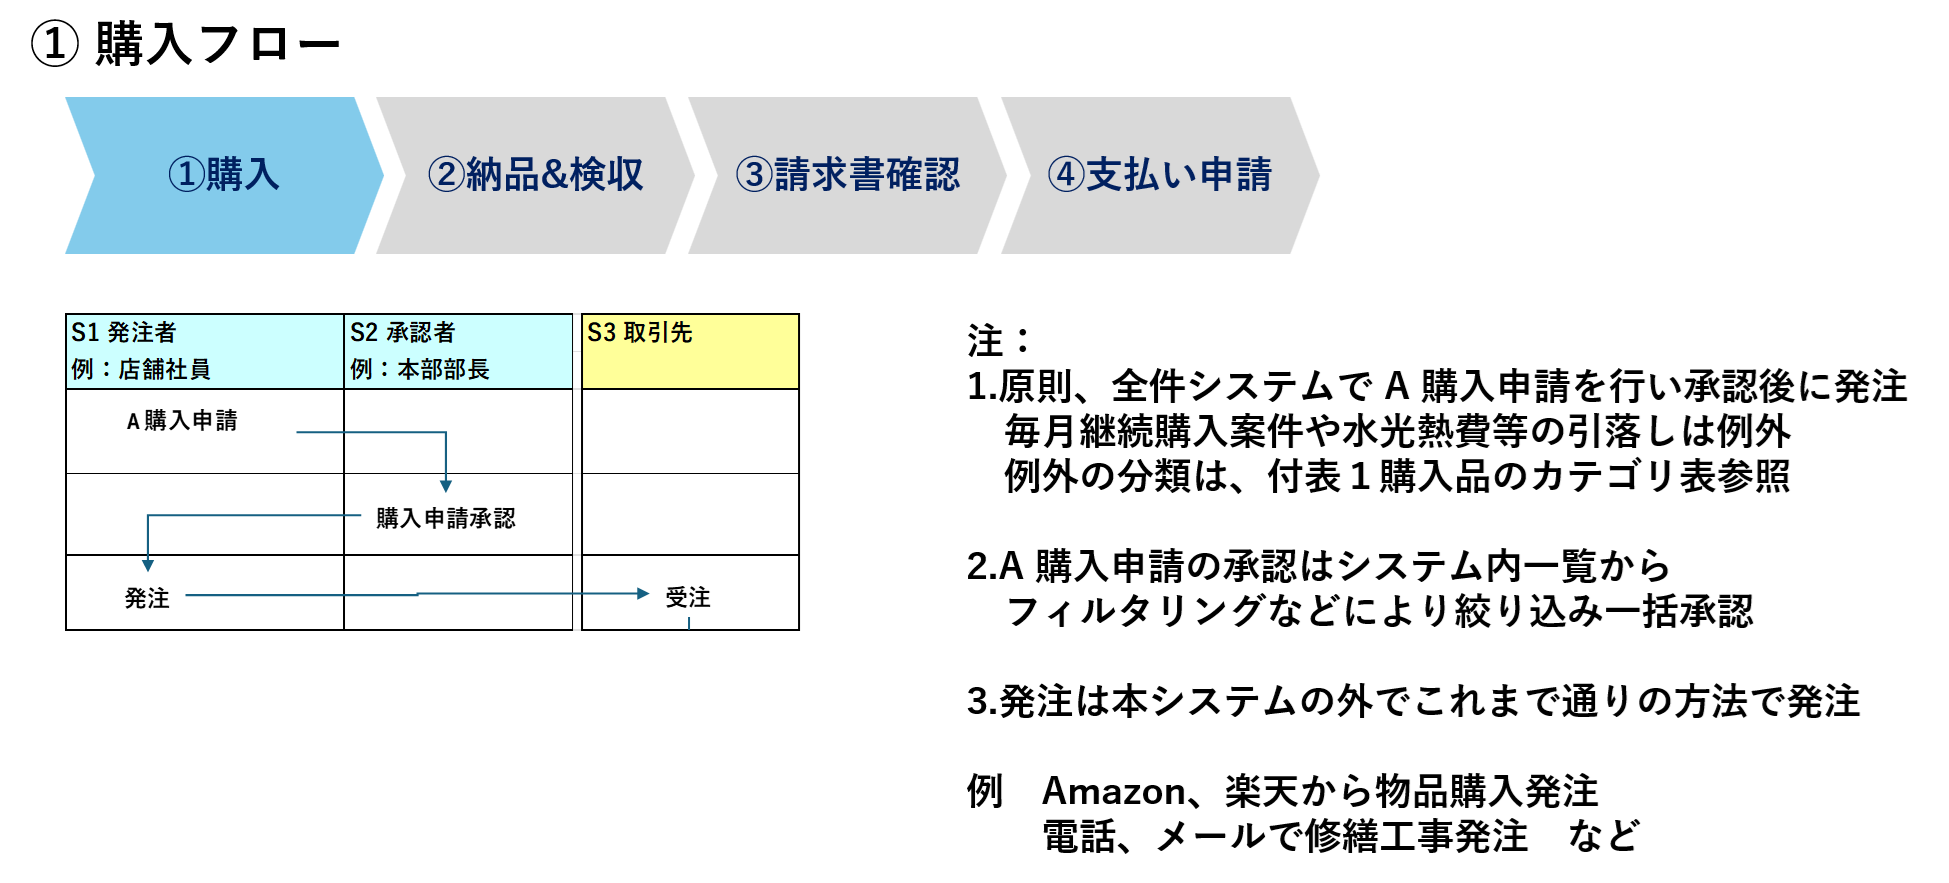
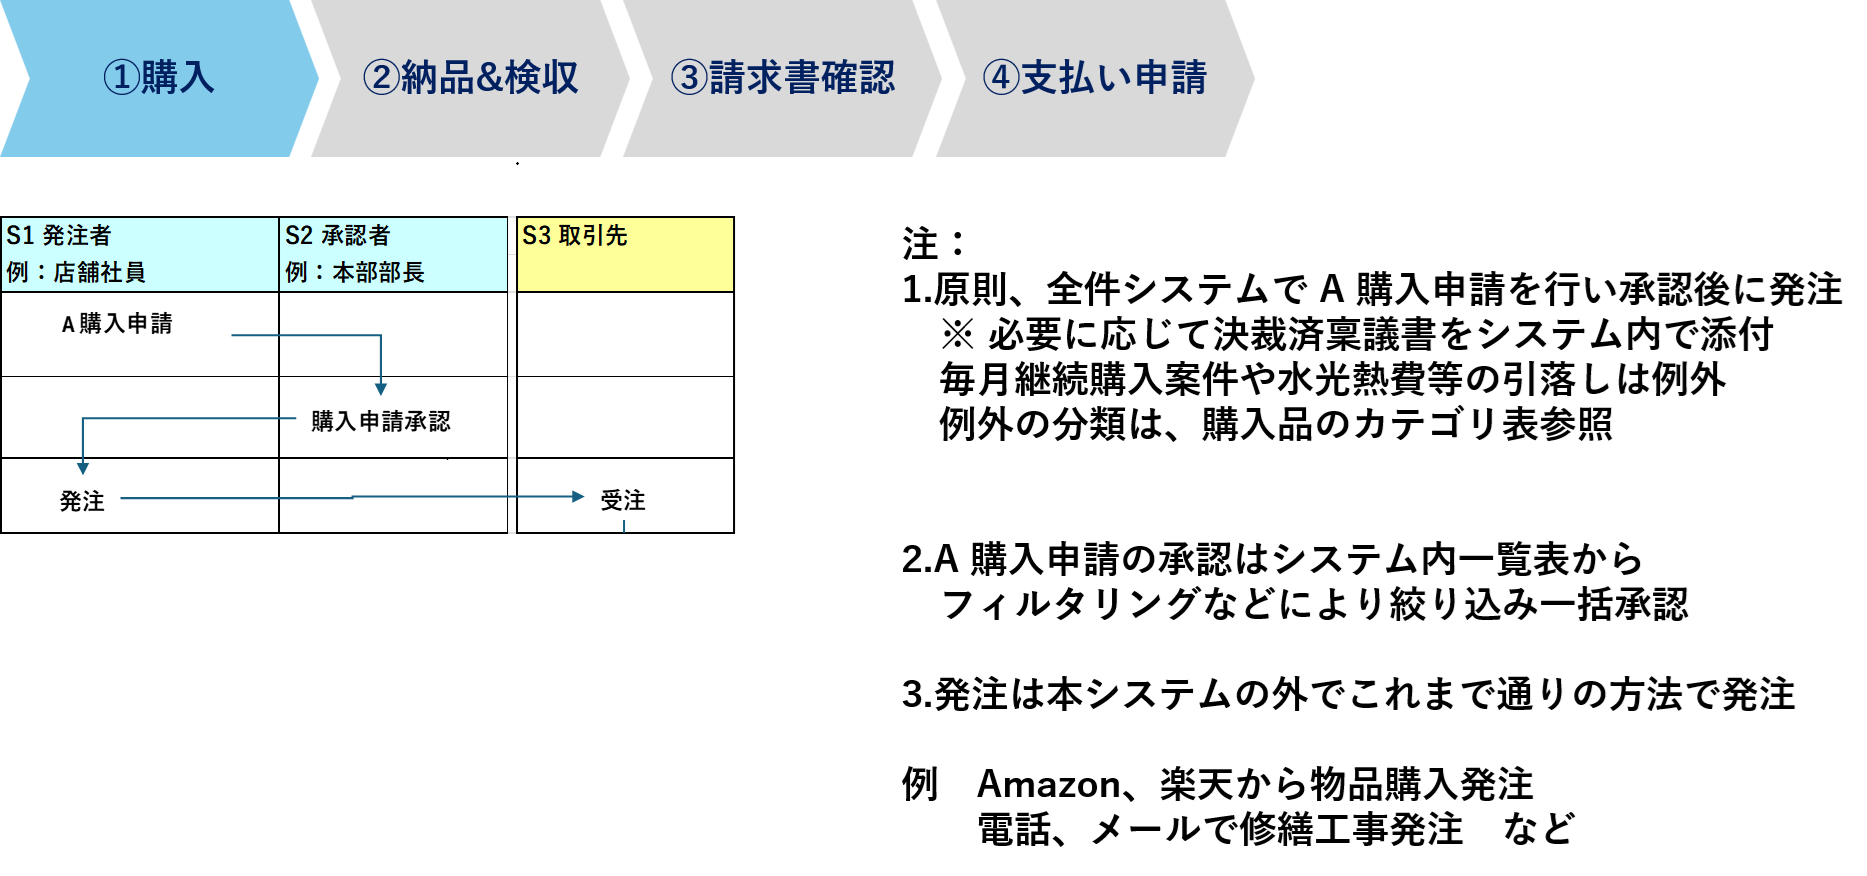
パスワードのハッシュ化および各詳細ページの修正を反映

diff --git a/step2.html b/step2.html
@@ -12,8 +12,8 @@
     <header class="bg-white border-b border-slate-200 sticky top-0 z-40">
         <div class="max-w-5xl mx-auto px-6 h-16 flex items-center justify-between">
             <span class="font-semibold text-slate-900 tracking-tight">② 納品＆検収 - 詳細フロー</span>
-            <a href="index.html" class="px-4 py-2 text-xs font-semibold text-white bg-indigo-950 hover:bg-indigo-900 rounded-xl transition-colors shadow-sm">
-                ← ホームに戻る
+            <a href="index.html#home" class="px-4 py-2 text-xs font-semibold text-white bg-indigo-950 hover:bg-indigo-900 rounded-xl transition-colors shadow-sm">
+                ← 業務フローに戻る
             </a>
         </div>
     </header>
@@ -69,3 +69,4 @@
     </script>
 </body>
 </html>
+```[cite: 15]

diff --git a/ringi.html b/ringi.html
@@ -12,8 +12,8 @@
     <header class="bg-white border-b border-slate-200 sticky top-0 z-40">
         <div class="max-w-5xl mx-auto px-6 h-16 flex items-center justify-between">
             <span class="font-semibold text-slate-900 tracking-tight">稟議書決裁フロー（案）</span>
-            <a href="index.html" class="px-4 py-2 text-xs font-semibold text-white bg-indigo-950 hover:bg-indigo-900 rounded-xl transition-colors shadow-sm">
-                ← ホームに戻る
+            <a href="index.html#home" class="px-4 py-2 text-xs font-semibold text-white bg-indigo-950 hover:bg-indigo-900 rounded-xl transition-colors shadow-sm">
+                ← 業務フローに戻る
             </a>
         </div>
     </header>
@@ -69,3 +69,4 @@
     </script>
 </body>
 </html>
+```[cite: 12]

diff --git a/step1.html b/step1.html
@@ -12,8 +12,8 @@
     <header class="bg-white border-b border-slate-200 sticky top-0 z-40">
         <div class="max-w-5xl mx-auto px-6 h-16 flex items-center justify-between">
             <span class="font-semibold text-slate-900 tracking-tight">① 購入 - 詳細フロー</span>
-            <a href="index.html" class="px-4 py-2 text-xs font-semibold text-white bg-indigo-950 hover:bg-indigo-900 rounded-xl transition-colors shadow-sm">
-                ← ホームに戻る
+            <a href="index.html#home" class="px-4 py-2 text-xs font-semibold text-white bg-indigo-950 hover:bg-indigo-900 rounded-xl transition-colors shadow-sm">
+                ← 業務フローに戻る
             </a>
         </div>
     </header>
@@ -99,3 +99,4 @@
     </script>
 </body>
 </html>
+```[cite: 16]

diff --git a/step4.html b/step4.html
@@ -12,8 +12,8 @@
     <header class="bg-white border-b border-slate-200 sticky top-0 z-40">
         <div class="max-w-5xl mx-auto px-6 h-16 flex items-center justify-between">
             <span class="font-semibold text-slate-900 tracking-tight">④ 支払い申請 - 詳細フロー</span>
-            <a href="index.html" class="px-4 py-2 text-xs font-semibold text-white bg-indigo-950 hover:bg-indigo-900 rounded-xl transition-colors shadow-sm">
-                ← ホームに戻る
+            <a href="index.html#home" class="px-4 py-2 text-xs font-semibold text-white bg-indigo-950 hover:bg-indigo-900 rounded-xl transition-colors shadow-sm">
+                ← 業務フローに戻る
             </a>
         </div>
     </header>
@@ -69,4 +69,3 @@
     </script>
 </body>
 </html>
-

diff --git a/step3.html b/step3.html
@@ -12,8 +12,8 @@
     <header class="bg-white border-b border-slate-200 sticky top-0 z-40">
         <div class="max-w-5xl mx-auto px-6 h-16 flex items-center justify-between">
             <span class="font-semibold text-slate-900 tracking-tight">③ 請求書確認 - 詳細フロー</span>
-            <a href="index.html" class="px-4 py-2 text-xs font-semibold text-white bg-indigo-950 hover:bg-indigo-900 rounded-xl transition-colors shadow-sm">
-                ← ホームに戻る
+            <a href="index.html#home" class="px-4 py-2 text-xs font-semibold text-white bg-indigo-950 hover:bg-indigo-900 rounded-xl transition-colors shadow-sm">
+                ← 業務フローに戻る
             </a>
         </div>
     </header>
